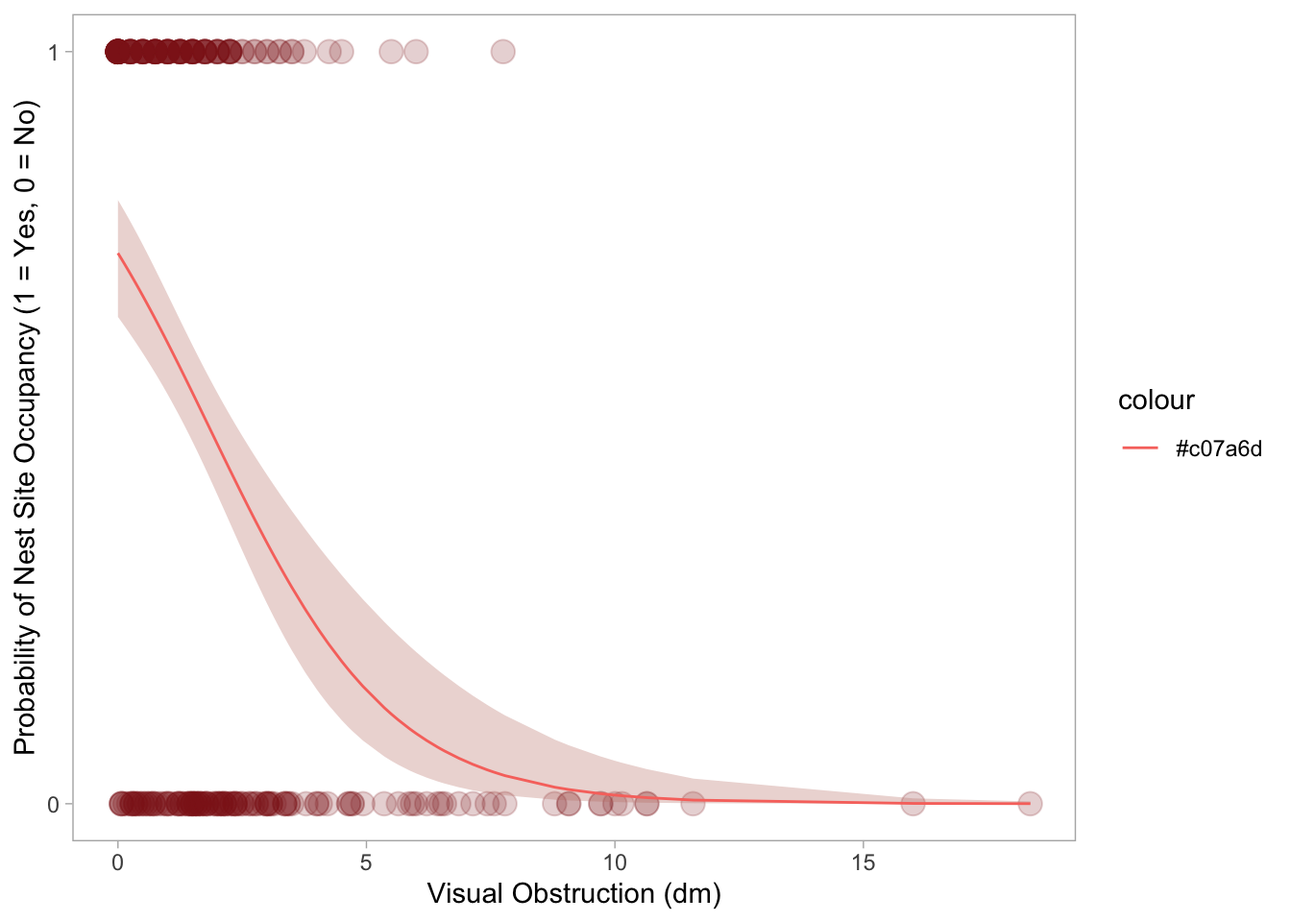
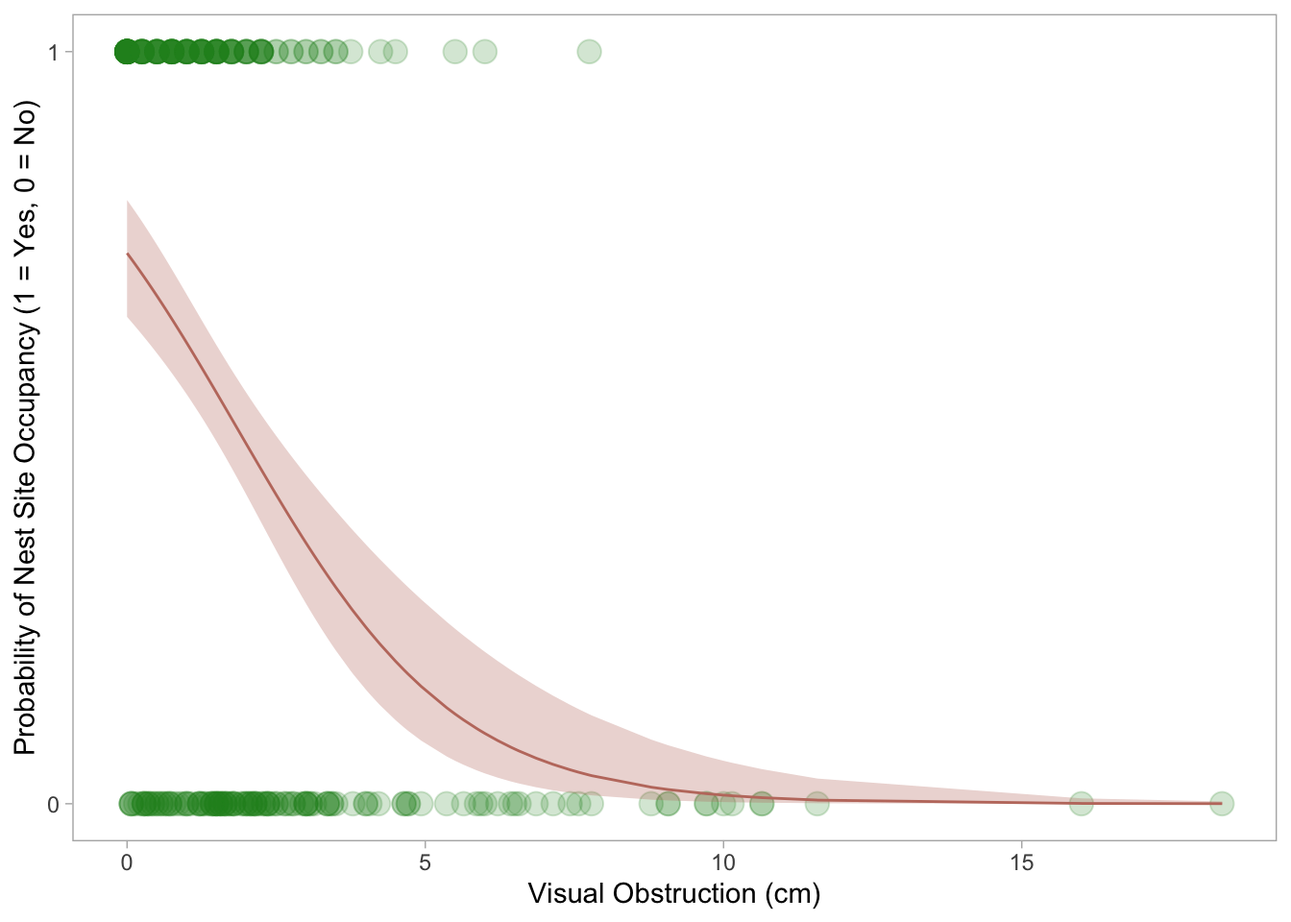
finishing problem 3

diff --git a/code/ENVS193DS.html b/code/ENVS193DS.html
@@ -108,6 +108,15 @@ pre > code.sourceCode > span > a:first-child::before { text-decoration: underlin
   <li><a href="#e.-select-the-best-model" id="toc-e.-select-the-best-model" class="nav-link" data-scroll-target="#e.-select-the-best-model">e. Select the best model</a></li>
   <li><a href="#f.-check-diagnostics" id="toc-f.-check-diagnostics" class="nav-link" data-scroll-target="#f.-check-diagnostics">f.&nbsp;Check diagnostics</a></li>
   <li><a href="#g.-visualize-model-predictions" id="toc-g.-visualize-model-predictions" class="nav-link" data-scroll-target="#g.-visualize-model-predictions">g. Visualize model predictions</a></li>
+  <li><a href="#h.-write-a-caption-for-your-figure" id="toc-h.-write-a-caption-for-your-figure" class="nav-link" data-scroll-target="#h.-write-a-caption-for-your-figure">h. Write a caption for your figure</a></li>
+  <li><a href="#i.-calculate-model-predictions" id="toc-i.-calculate-model-predictions" class="nav-link" data-scroll-target="#i.-calculate-model-predictions">i. Calculate model predictions</a></li>
+  <li><a href="#j." id="toc-j." class="nav-link" data-scroll-target="#j.">j.</a></li>
+  </ul></li>
+  <li><a href="#problem-4.-affective-and-exploratory-visualizations" id="toc-problem-4.-affective-and-exploratory-visualizations" class="nav-link" data-scroll-target="#problem-4.-affective-and-exploratory-visualizations">Problem 4. Affective and exploratory visualizations</a>
+  <ul class="collapse">
+  <li><a href="#a.-comparing-visualizations" id="toc-a.-comparing-visualizations" class="nav-link" data-scroll-target="#a.-comparing-visualizations">a. Comparing visualizations</a></li>
+  <li><a href="#b.-designing-an-analysis" id="toc-b.-designing-an-analysis" class="nav-link" data-scroll-target="#b.-designing-an-analysis">b. Designing an analysis</a></li>
+  <li><a href="#c.-check-any-assumptions-and-run-your-analysis" id="toc-c.-check-any-assumptions-and-run-your-analysis" class="nav-link" data-scroll-target="#c.-check-any-assumptions-and-run-your-analysis">c.&nbsp;Check any assumptions and run your analysis</a></li>
   </ul></li>
   </ul>
 </nav>
@@ -157,12 +166,13 @@ pre > code.sourceCode > span > a:first-child::before { text-decoration: underlin
 <span id="cb1-6"><a href="#cb1-6" aria-hidden="true" tabindex="-1"></a><span class="fu">library</span>(scales) <span class="co"># modifying axis labels</span></span>
 <span id="cb1-7"><a href="#cb1-7" aria-hidden="true" tabindex="-1"></a><span class="fu">library</span>(ggeffects) <span class="co"># getting model predictions</span></span>
 <span id="cb1-8"><a href="#cb1-8" aria-hidden="true" tabindex="-1"></a><span class="fu">library</span>(MuMIn) <span class="co"># model selection</span></span>
-<span id="cb1-9"><a href="#cb1-9" aria-hidden="true" tabindex="-1"></a><span class="fu">library</span>(DHARMa)</span>
-<span id="cb1-10"><a href="#cb1-10" aria-hidden="true" tabindex="-1"></a></span>
-<span id="cb1-11"><a href="#cb1-11" aria-hidden="true" tabindex="-1"></a><span class="co"># reading in data</span></span>
-<span id="cb1-12"><a href="#cb1-12" aria-hidden="true" tabindex="-1"></a></span>
-<span id="cb1-13"><a href="#cb1-13" aria-hidden="true" tabindex="-1"></a>kelp <span class="ot">&lt;-</span> <span class="fu">read_csv</span>(<span class="fu">here</span>(<span class="st">"data"</span>, <span class="st">"Annual_Kelp_All_Years_20250903.csv"</span>)) <span class="co"># read in KFCD abundance and size of giant kelp data and save as an object called kelp</span></span>
-<span id="cb1-14"><a href="#cb1-14" aria-hidden="true" tabindex="-1"></a>mopl <span class="ot">&lt;-</span> <span class="fu">read_csv</span>(<span class="fu">here</span>(<span class="st">"data"</span>, <span class="st">"MOPL_nest-site_selection_Duchardt_et_al._2019.csv"</span>)) <span class="co"># read in Mountain plover data and save as an object called mopl</span></span></code></pre></div><button title="Copy to Clipboard" class="code-copy-button"><i class="bi"></i></button></div>
+<span id="cb1-9"><a href="#cb1-9" aria-hidden="true" tabindex="-1"></a><span class="fu">library</span>(DHARMa) <span class="co"># diagnostic check</span></span>
+<span id="cb1-10"><a href="#cb1-10" aria-hidden="true" tabindex="-1"></a><span class="fu">library</span>(rstatix) <span class="co"># kruskal-wallis</span></span>
+<span id="cb1-11"><a href="#cb1-11" aria-hidden="true" tabindex="-1"></a></span>
+<span id="cb1-12"><a href="#cb1-12" aria-hidden="true" tabindex="-1"></a><span class="co"># reading in data</span></span>
+<span id="cb1-13"><a href="#cb1-13" aria-hidden="true" tabindex="-1"></a></span>
+<span id="cb1-14"><a href="#cb1-14" aria-hidden="true" tabindex="-1"></a>kelp <span class="ot">&lt;-</span> <span class="fu">read_csv</span>(<span class="fu">here</span>(<span class="st">"data"</span>, <span class="st">"Annual_Kelp_All_Years_20250903.csv"</span>)) <span class="co"># read in KFCD abundance and size of giant kelp data and save as an object called kelp</span></span>
+<span id="cb1-15"><a href="#cb1-15" aria-hidden="true" tabindex="-1"></a>mopl <span class="ot">&lt;-</span> <span class="fu">read_csv</span>(<span class="fu">here</span>(<span class="st">"data"</span>, <span class="st">"MOPL_nest-site_selection_Duchardt_et_al._2019.csv"</span>)) <span class="co"># read in Mountain plover data and save as an object called mopl</span></span></code></pre></div><button title="Copy to Clipboard" class="code-copy-button"><i class="bi"></i></button></div>
 </div>
 </section>
 <section id="problem-1.-research-writing" class="level1">
@@ -173,7 +183,7 @@ pre > code.sourceCode > span > a:first-child::before { text-decoration: underlin
 </section>
 <section id="b.-figure-needed" class="level2">
 <h2 class="anchored" data-anchor-id="b.-figure-needed">b. Figure needed</h2>
-<p>The coworker should make a jitter plot with an overlaid box plot. The x-axis should display water year classification as a categorical variable with five groups (wet, above normal, below normal, dry, critical drought), and the y-axis should display flooded wetland area in m². The boxplot component should show the median as a horizontal line within the box, with the box itself representing the interquartile range and whiskers extending to the full range of the data as these elements directly correspond to the Kruskal-Wallis test’s comparison of medians across groups. The jittered points overlaid on each box should show the underlying raw data for each water year classification, giving the reader a sense of spread and sample size within each group. Using different colors for each water year category would further help a non-statistical audience visually distinguish between the five groups.</p>
+<p>The coworker should make a jitter plot with an overlaid side by side box plot. The x-axis should display water year classification as a categorical variable with five groups (wet, above normal, below normal, dry, critical drought), and the y-axis should display flooded wetland area in m². The boxplot component should show the median as a horizontal line within the box, with the box itself representing the interquartile range and whiskers extending to the full range of the data as these elements directly correspond to the Kruskal-Wallis test’s comparison of medians across groups. The jittered points overlaid on each box should show the underlying raw data for each water year classification, giving the reader a sense of spread and sample size within each group. Using different colors for each water year category would further help a non-statistical audience visually distinguish between the five groups.</p>
 </section>
 <section id="c.-suggestions-for-rewriting" class="level2">
 <h2 class="anchored" data-anchor-id="c.-suggestions-for-rewriting">c.&nbsp;Suggestions for rewriting</h2>
@@ -209,11 +219,11 @@ pre > code.sourceCode > span > a:first-child::before { text-decoration: underlin
 <pre><code># A tibble: 5 × 3
   site_name    year mean_fronds
   &lt;fct&gt;       &lt;dbl&gt;       &lt;dbl&gt;
-1 Isla Vista   2008       39.4 
-2 Isla Vista   2021       13.1 
-3 Naples       2009        5.44
-4 Carpinteria  2000        7.98
-5 Carpinteria  2019        3.37</code></pre>
+1 Naples       2001      0.0606
+2 Carpinteria  2023      4.50  
+3 Carpinteria  2002      9.79  
+4 Isla Vista   2024     10.3   
+5 Isla Vista   2001      6.5   </code></pre>
 </div>
 <div class="code-copy-outer-scaffold"><div class="sourceCode cell-code" id="cb4"><pre class="sourceCode r code-with-copy"><code class="sourceCode r"><span id="cb4-1"><a href="#cb4-1" aria-hidden="true" tabindex="-1"></a>  <span class="fu">str</span>(kelp_clean) <span class="co"># display structure</span></span></code></pre></div><button title="Copy to Clipboard" class="code-copy-button"><i class="bi"></i></button></div>
 <div class="cell-output cell-output-stdout">
@@ -277,7 +287,7 @@ pre > code.sourceCode > span > a:first-child::before { text-decoration: underlin
 </section>
 <section id="b.-purpose-of-study" class="level2">
 <h2 class="anchored" data-anchor-id="b.-purpose-of-study">b. Purpose of study</h2>
-<p>Visual obstruction (vo_nest) is a continuous variable measuring the height at which vegetation is sufficiently dense to obscure a 2.5-cm wide pole when viewed from a 1-m height, incorporating both vegetation height and density. As visual obstruction increases, the probability of Mountain Plover nest site use would decrease because Mountain Plovers prefer sparse, short vegetation that allows them to detect approaching ground predators while still providing some concealment for a sitting bird. This information was found in paragraph 4 of the discussion section.</p>
+<p>Visual obstruction (vo_nest) is a numeric continuous variable measuring the height at which vegetation is sufficiently dense to obscure a 2.5-cm wide pole when viewed from a 1-m height, incorporating both vegetation height and density. As visual obstruction increases, the probability of Mountain Plover nest site use would decrease because Mountain Plovers prefer sparse, short vegetation that allows them to detect approaching ground predators while still providing some concealment for a sitting bird. This information was found in paragraph 4 of the discussion section.</p>
 <p>Distance to prairie dog colony edge (edgedist) is a continuous variable measuring how far a given point is from the nearest edge of the prairie dog colony. As distance to colony edge increases, the probability of Mountain Plover nest site use would decrease because plovers tend to nest closer to colony edges where complementary resources such as taller vegetation for thermoregulation and predator cover are more accessible for adults traveling with broods. This information was found in paragraph 2 of the discussion section.</p>
 </section>
 <section id="c.-table-of-models" class="level2">
@@ -312,15 +322,15 @@ pre > code.sourceCode > span > a:first-child::before { text-decoration: underlin
 </tr>
 <tr class="odd">
 <td>2</td>
-<td style="text-align: center;">X</td>
-<td style="text-align: center;"></td>
-<td style="text-align: center;">Visual obstruction only</td>
-</tr>
-<tr class="even">
-<td>3</td>
 <td style="text-align: center;"></td>
 <td style="text-align: center;">X</td>
 <td style="text-align: center;">Distance to colony edge only</td>
+</tr>
+<tr class="even">
+<td>3</td>
+<td style="text-align: center;">X</td>
+<td style="text-align: center;"></td>
+<td style="text-align: center;">Visual obstruction only.</td>
 </tr>
 </tbody>
 </table>
@@ -341,12 +351,12 @@ pre > code.sourceCode > span > a:first-child::before { text-decoration: underlin
 <span id="cb7-11"><a href="#cb7-11" aria-hidden="true" tabindex="-1"></a><span class="co"># model 0: null model, no predictors</span></span>
 <span id="cb7-12"><a href="#cb7-12" aria-hidden="true" tabindex="-1"></a>mopl_model0 <span class="ot">&lt;-</span> <span class="fu">glm</span>(used_bin <span class="sc">~</span> <span class="dv">1</span>, <span class="co"># response</span></span>
 <span id="cb7-13"><a href="#cb7-13" aria-hidden="true" tabindex="-1"></a>                   <span class="at">data =</span> mopl_clean, <span class="co"># data frame</span></span>
-<span id="cb7-14"><a href="#cb7-14" aria-hidden="true" tabindex="-1"></a>                   <span class="at">family =</span> binomial) <span class="co"># error distribution</span></span>
+<span id="cb7-14"><a href="#cb7-14" aria-hidden="true" tabindex="-1"></a>                   <span class="at">family =</span> <span class="st">"binomial"</span>) <span class="co"># error distribution</span></span>
 <span id="cb7-15"><a href="#cb7-15" aria-hidden="true" tabindex="-1"></a></span>
 <span id="cb7-16"><a href="#cb7-16" aria-hidden="true" tabindex="-1"></a><span class="co"># model 1: saturated model, both visual obstruction and distance to colony edge</span></span>
 <span id="cb7-17"><a href="#cb7-17" aria-hidden="true" tabindex="-1"></a>mopl_model1 <span class="ot">&lt;-</span> <span class="fu">glm</span>(used_bin <span class="sc">~</span> vo_nest <span class="sc">+</span> edgedist,  <span class="co"># response vs. edge distance and visual obstruction</span></span>
 <span id="cb7-18"><a href="#cb7-18" aria-hidden="true" tabindex="-1"></a>              <span class="at">data =</span> mopl_clean, <span class="co"># data frame</span></span>
-<span id="cb7-19"><a href="#cb7-19" aria-hidden="true" tabindex="-1"></a>              <span class="at">family =</span> binomial) <span class="co"># error distribution</span></span>
+<span id="cb7-19"><a href="#cb7-19" aria-hidden="true" tabindex="-1"></a>              <span class="at">family =</span> <span class="st">"binomial"</span>) <span class="co"># error distribution</span></span>
 <span id="cb7-20"><a href="#cb7-20" aria-hidden="true" tabindex="-1"></a></span>
 <span id="cb7-21"><a href="#cb7-21" aria-hidden="true" tabindex="-1"></a><span class="co"># model 2: distance to colony edge only</span></span>
 <span id="cb7-22"><a href="#cb7-22" aria-hidden="true" tabindex="-1"></a>mopl_model2 <span class="ot">&lt;-</span> <span class="fu">glm</span>( used_bin <span class="sc">~</span> edgedist, <span class="co"># response vs. edge distance</span></span>
@@ -363,22 +373,21 @@ pre > code.sourceCode > span > a:first-child::before { text-decoration: underlin
 <h2 class="anchored" data-anchor-id="e.-select-the-best-model">e. Select the best model</h2>
 <div class="cell">
 <div class="code-copy-outer-scaffold"><div class="sourceCode cell-code" id="cb8"><pre class="sourceCode r code-with-copy"><code class="sourceCode r"><span id="cb8-1"><a href="#cb8-1" aria-hidden="true" tabindex="-1"></a><span class="co"># calculate the AIC for each model</span></span>
-<span id="cb8-2"><a href="#cb8-2" aria-hidden="true" tabindex="-1"></a><span class="fu">AICc</span>( </span>
+<span id="cb8-2"><a href="#cb8-2" aria-hidden="true" tabindex="-1"></a><span class="fu">AIC</span>( </span>
 <span id="cb8-3"><a href="#cb8-3" aria-hidden="true" tabindex="-1"></a>  mopl_model0,</span>
 <span id="cb8-4"><a href="#cb8-4" aria-hidden="true" tabindex="-1"></a>  mopl_model1,</span>
 <span id="cb8-5"><a href="#cb8-5" aria-hidden="true" tabindex="-1"></a>  mopl_model2,</span>
 <span id="cb8-6"><a href="#cb8-6" aria-hidden="true" tabindex="-1"></a>  mopl_model3</span>
-<span id="cb8-7"><a href="#cb8-7" aria-hidden="true" tabindex="-1"></a>) <span class="sc">|&gt;</span> </span>
-<span id="cb8-8"><a href="#cb8-8" aria-hidden="true" tabindex="-1"></a>  <span class="fu">arrange</span>(AICc) <span class="co"># arrange by increasing AIC</span></span></code></pre></div><button title="Copy to Clipboard" class="code-copy-button"><i class="bi"></i></button></div>
+<span id="cb8-7"><a href="#cb8-7" aria-hidden="true" tabindex="-1"></a>) </span></code></pre></div><button title="Copy to Clipboard" class="code-copy-button"><i class="bi"></i></button></div>
 <div class="cell-output cell-output-stdout">
-<pre><code>            df     AICc
-mopl_model3  2 331.8130
-mopl_model1  3 333.8293
-mopl_model0  1 384.6318
-mopl_model2  2 386.1351</code></pre>
+<pre><code>            df      AIC
+mopl_model0  1 384.6172
+mopl_model1  3 333.7410
+mopl_model2  2 386.0911
+mopl_model3  2 331.7690</code></pre>
 </div>
 </div>
-<p>The best model as determined by Akaike’s Information Criterion (AIC) is the model predicting the probability of Mountain Plover nest site occupancy using visual obstruction as the sole predictor (AIC = 331.81). This model had a lower AIC value than the saturated model containing both visual obstruction and distance to prairie dog colony edge, the model containing only distance to colony edge, and the null model.</p>
+<p>The best model as determined by Akaike’s Information Criterion (AIC) is the model predicting the probability of Mountain Plover nest site occupancy using visual obstruction as the sole predictor (AIC = 331.77). This model had a lower AIC value than the saturated model containing both visual obstruction and distance to prairie dog colony edge, the model containing only distance to colony edge, and the null model.</p>
 </section>
 <section id="f.-check-diagnostics" class="level2">
 <h2 class="anchored" data-anchor-id="f.-check-diagnostics">f.&nbsp;Check diagnostics</h2>
@@ -411,7 +420,7 @@ mopl_model2  2 386.1351</code></pre>
 <span id="cb11-10"><a href="#cb11-10" aria-hidden="true" tabindex="-1"></a>       ) <span class="sc">+</span> </span>
 <span id="cb11-11"><a href="#cb11-11" aria-hidden="true" tabindex="-1"></a>  <span class="co"># first layer: points</span></span>
 <span id="cb11-12"><a href="#cb11-12" aria-hidden="true" tabindex="-1"></a>  <span class="fu">geom_point</span>(<span class="at">size =</span> <span class="dv">4</span>,</span>
-<span id="cb11-13"><a href="#cb11-13" aria-hidden="true" tabindex="-1"></a>             <span class="at">color =</span> <span class="st">"firebrick4"</span>, </span>
+<span id="cb11-13"><a href="#cb11-13" aria-hidden="true" tabindex="-1"></a>             <span class="at">color =</span> <span class="st">"forestgreen"</span>, </span>
 <span id="cb11-14"><a href="#cb11-14" aria-hidden="true" tabindex="-1"></a>             <span class="at">alpha =</span> <span class="fl">0.2</span>) <span class="sc">+</span> </span>
 <span id="cb11-15"><a href="#cb11-15" aria-hidden="true" tabindex="-1"></a>  <span class="co"># second layer: add 95% CI around the predictions and the underlying data</span></span>
 <span id="cb11-16"><a href="#cb11-16" aria-hidden="true" tabindex="-1"></a>  <span class="fu">geom_ribbon</span>(<span class="at">data =</span> preds,</span>
@@ -424,11 +433,11 @@ mopl_model2  2 386.1351</code></pre>
 <span id="cb11-23"><a href="#cb11-23" aria-hidden="true" tabindex="-1"></a>  <span class="co"># third layer: model predictions line</span></span>
 <span id="cb11-24"><a href="#cb11-24" aria-hidden="true" tabindex="-1"></a>  <span class="fu">geom_line</span>(<span class="at">data =</span> preds, </span>
 <span id="cb11-25"><a href="#cb11-25" aria-hidden="true" tabindex="-1"></a>            <span class="fu">aes</span>(<span class="at">x =</span> x, </span>
-<span id="cb11-26"><a href="#cb11-26" aria-hidden="true" tabindex="-1"></a>                <span class="at">y =</span> predicted, </span>
-<span id="cb11-27"><a href="#cb11-27" aria-hidden="true" tabindex="-1"></a>                <span class="at">color =</span> <span class="st">"#c07a6d"</span>)) <span class="sc">+</span> <span class="co"># custom color for line</span></span>
+<span id="cb11-26"><a href="#cb11-26" aria-hidden="true" tabindex="-1"></a>                <span class="at">y =</span> predicted), </span>
+<span id="cb11-27"><a href="#cb11-27" aria-hidden="true" tabindex="-1"></a>                <span class="at">color =</span> <span class="st">"#c07a6d"</span>) <span class="sc">+</span> <span class="co"># custom color for line</span></span>
 <span id="cb11-28"><a href="#cb11-28" aria-hidden="true" tabindex="-1"></a>  <span class="fu">scale_y_continuous</span>(<span class="at">limits =</span> <span class="fu">c</span>(<span class="dv">0</span>,<span class="dv">1</span>),</span>
 <span id="cb11-29"><a href="#cb11-29" aria-hidden="true" tabindex="-1"></a>                     <span class="at">breaks =</span> <span class="fu">c</span>(<span class="dv">0</span>,<span class="dv">1</span>)) <span class="sc">+</span></span>
-<span id="cb11-30"><a href="#cb11-30" aria-hidden="true" tabindex="-1"></a>  <span class="fu">labs</span>(<span class="at">x =</span> <span class="st">"Visual Obstruction (dm)"</span>, </span>
+<span id="cb11-30"><a href="#cb11-30" aria-hidden="true" tabindex="-1"></a>  <span class="fu">labs</span>(<span class="at">x =</span> <span class="st">"Visual Obstruction (cm)"</span>, </span>
 <span id="cb11-31"><a href="#cb11-31" aria-hidden="true" tabindex="-1"></a>       <span class="at">y =</span> <span class="st">"Probability of Nest Site Occupancy (1 = Yes, 0 = No)"</span>) <span class="sc">+</span></span>
 <span id="cb11-32"><a href="#cb11-32" aria-hidden="true" tabindex="-1"></a> <span class="co"># remove gridlines and apply clean theme</span></span>
 <span id="cb11-33"><a href="#cb11-33" aria-hidden="true" tabindex="-1"></a>  <span class="fu">theme_light</span>() <span class="sc">+</span></span>
@@ -441,6 +450,45 @@ mopl_model2  2 386.1351</code></pre>
 </div>
 </div>
 </div>
+</section>
+<section id="h.-write-a-caption-for-your-figure" class="level2">
+<h2 class="anchored" data-anchor-id="h.-write-a-caption-for-your-figure">h. Write a caption for your figure</h2>
+<p><em>Figure 1. Predicted probability of Mountain Plover nest site occupancy decreases with increasing visual obstruction.</em> The predicted probability of nest site occupancy (y-axis) is shown as a function of visual obstruction measured in centimeters (cm) on the x-axis, based on a logistic regression model. The red line represents the model-predicted probability of nest site occupancy, and the shaded ribbon represents the 95% confidence interval around the predictions. Points along y = 1 and y = 0 represent the underlying observed data for used nest sites and unused available sites, respectively, with transparency (alpha) indicating overlapping observations. Data citation: Duchardt, Courtney; Beck, Jeffrey; Augustine, David (2020). Data from: Mountain Plover habitat selection and nest survival in relation to weather variability and spatial attributes of Black-tailed Prairie Dog disturbance [Dataset]. Dryad. https://doi.org/10.5061/dryad.ttdz08kt7.</p>
+</section>
+<section id="i.-calculate-model-predictions" class="level2">
+<h2 class="anchored" data-anchor-id="i.-calculate-model-predictions">i. Calculate model predictions</h2>
+<div class="cell">
+<div class="code-copy-outer-scaffold"><div class="sourceCode cell-code" id="cb12"><pre class="sourceCode r code-with-copy"><code class="sourceCode r"><span id="cb12-1"><a href="#cb12-1" aria-hidden="true" tabindex="-1"></a><span class="fu">ggpredict</span>(mopl_model3, <span class="co"># use model 3 (visual obstruction only)</span></span>
+<span id="cb12-2"><a href="#cb12-2" aria-hidden="true" tabindex="-1"></a>          <span class="at">terms =</span> <span class="st">"vo_nest [0]"</span>) <span class="co"># visual obstruction = 0</span></span></code></pre></div><button title="Copy to Clipboard" class="code-copy-button"><i class="bi"></i></button></div>
+<div class="cell-output cell-output-stdout">
+<pre><code># Predicted probabilities of used_bin
+
+vo_nest | Predicted |     95% CI
+--------------------------------
+      0 |      0.73 | 0.65, 0.80</code></pre>
+</div>
+</div>
+</section>
+<section id="j." class="level2">
+<h2 class="anchored" data-anchor-id="j.">j.</h2>
+<p>The best model as determined by AIC included only visual obstruction as a predictor of Mountain Plover nest site occupancy, suggesting that distance to prairie dog colony edge did not meaningfully improve model fit beyond visual obstruction alone. At zero visual obstruction (completely bare, unobstructed ground), the predicted probability of nest site occupancy is 0.73 or 73% (95% CI: 0.65, 0.80), and as shown in Figure 1, this probability declined steeply and nonlinearly as visual obstruction increased, approaching near-zero probability at visual obstruction values above approximately 6 cm. This negative relationship between visual obstruction and nest site occupancy is biologically consistent with Mountain Plover habitat preferences described in the discussion, where the authors note that plovers select nest sites with sparse, short vegetation in the range of 3–5 cm because the short, dense layer provides some concealment for a sitting bird while still allowing the plover to scan for and detect approaching ground predators. Additionally, Mountain Plovers blend in especially well with bare soil when viewed by aerial predators, further explaining the strong preference for low visual obstruction at nest sites. These findings reinforce the critical role of black-tailed prairie dogs as ecosystem engineers that maintain the open, disturbed habitat structure that Mountain Plovers require for successful nesting.</p>
+</section>
+</section>
+<section id="problem-4.-affective-and-exploratory-visualizations" class="level1">
+<h1>Problem 4. Affective and exploratory visualizations</h1>
+<section id="a.-comparing-visualizations" class="level2">
+<h2 class="anchored" data-anchor-id="a.-comparing-visualizations">a. Comparing visualizations</h2>
+<p><em>How are the visualizations different?</em> The affective visualization represents reading data through a hand-drawn tree where each branch represents a reading location (campus, home, coffee shop, outside, other), each leaf represents an individual reading session, and leaf color encodes pages read, making the data experiential and emotionally resonant rather than statistically precise. In contrast, the exploratory visualizations use conventional statistical graphics (a scatterplot showing the relationship between reading duration and pages read, and a boxplot comparing pages read across reading locations). The exploratory visualization prioritizes accurate representation of distributions and relationships while the affective visualization shows aesthetic, emotions, and creativity.</p>
+<p><em>What similarities do you see?</em> Both visualizations have the same core variables from the personal dataset: reading location and pages read. The use of color to distinguish categories or encode magnitude appears across both the affective visualization (leaf colors representing pages read) and the exploratory boxplot (different colors per location).</p>
+<p><em>What patterns do you see?</em> The exploratory boxplot suggests campus reading sessions tend to produce more pages read than home sessions, and the scatterplot shows a positive relationship between reading duration and pages read. These same patterns are present but harder to read precisely in the affective visualization, where the home branch appears to have more leaves clustered at warmer colors (higher pages) than the campus branch, though the non-standard format makes direct comparison less intuitive.</p>
+<p><em>Feedback and implementation</em> During office hours, feedback from my peers suggested making the leaf size or color scale more explicit so viewers could decode the data without a legend being necessary. I tried to implement this by adding a more consistent color gradient across leaves in the final affective visualization and using a darker yellow color. I also incorporated newspaper into the whole visualization instead of just the tree base to play around with more of a mixed media and get more creative.</p>
+</section>
+<section id="b.-designing-an-analysis" class="level2">
+<h2 class="anchored" data-anchor-id="b.-designing-an-analysis">b. Designing an analysis</h2>
+<p>To examine whether reading location predicts the number of pages read per session, I would propose a Kruskal-Wallis test. My response variable, pages read, is a continuous numeric variable, and my predictor variable, reading location (campus, home, coffee shop, outside, other), is a categorical variable with more than two groups. A Kruskal-Wallis test is appropriate here because it compares medians across more than two groups of a categorical predictor, which directly addresses my research question of whether where I read influences how much I read. Additionally, given the small sample size in my personal dataset, the data are unlikely to meet the normality assumption required for a one-way ANOVA, making the Kruskal-Wallis test a more appropriate non-parametric alternative that does not assume a normal distribution.</p>
+</section>
+<section id="c.-check-any-assumptions-and-run-your-analysis" class="level2">
+<h2 class="anchored" data-anchor-id="c.-check-any-assumptions-and-run-your-analysis">c.&nbsp;Check any assumptions and run your analysis</h2>
 </section>
 </section>
 

diff --git a/README.md b/README.md
@@ -6,4 +6,4 @@ This final exam in ENVS193DS demonstrates proficiency in statistical communicati
 # Data and file overview
 
 # Rendered output
-[Rendered HTML](https://maceyhartmann.github.io/ENVS-193DS_winter-2026_final/code/ENVS193DS.html)
+[Rendered HTML](maceyhartmann.github.io/ENVS-193DS_winter-2026_final/code/ENVS193DS.html)
